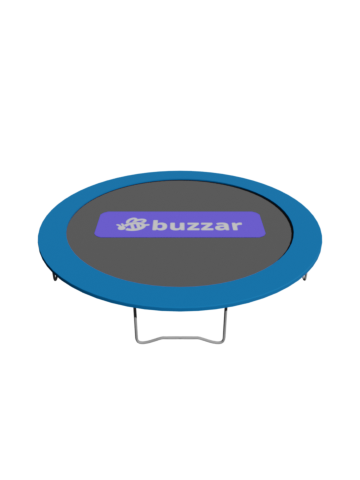
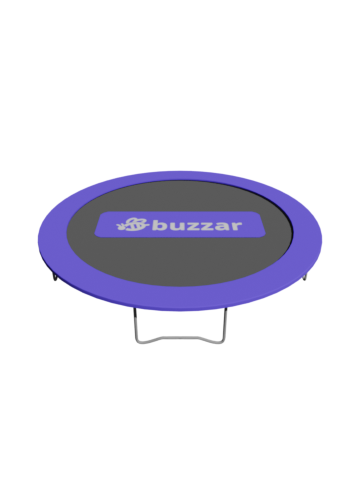
Purple trampoline; name, description, author, source and version in files
- The trampoline's edge pad is Buzzar purple (#7000FF) instead of blue;
  previews re-rendered.
- HAVEN_metadata (name, multi-line description, author, source URL,
  version) in the trampoline (0.1.2), the crate (0.1.0), Buzzar Home (0.1.8;
  home version 10, so homes pick it up) and the test room's scene (0.1.6).

Changed region(s): [[0.0917, 0.3438, 0.9167, 0.6562]]

diff --git a/scripts/buzzar/make-trampoline-thing.py b/scripts/buzzar/make-trampoline-thing.py
@@ -99,6 +99,12 @@ gltf["meshes"].append(
     }
 )
 
+# --- the pad round the edge: Buzzar purple (#7000FF; glTF colours are linear, so sRGB 0x70 -> 0.162) ---
+for m in gltf["materials"]:
+    if m.get("name") == "blue-plastic":
+        m["name"] = "buzzar-purple-plastic"
+        m["pbrMetallicRoughness"]["baseColorFactor"] = [0.162, 0.0, 1.0, 1.0]
+
 # --- node tree: Trampoline (metres, Y up, feet on y=0) ---
 nodes = gltf["nodes"]
 scene = gltf.get("scene", 0)
@@ -119,7 +125,20 @@ bed = len(nodes) - 1
 nodes.append({"name": "Trampoline", "children": [model, logo, bed]})
 gltf["scene"] = scene
 gltf["scenes"][scene]["nodes"] = [len(nodes) - 1]
-gltf["extensionsUsed"] = sorted(set(gltf.get("extensionsUsed", []) + ["HAVEN_trampoline"]))
+gltf["extensionsUsed"] = sorted(set(gltf.get("extensionsUsed", []) + ["HAVEN_trampoline", "HAVEN_metadata"]))
+# What it is and where it's from (docs/gltf/HAVEN_metadata). Bump the version with each change to this file.
+gltf.setdefault("extensions", {})["HAVEN_metadata"] = {
+    "name": "Trampoline",
+    "description": (
+        "A 3 m trampoline with the Buzzar logo on the mat.\n"
+        "Land on it to bounce (at least 2.5 m, higher the further you fall). Hold jump as you land to go higher; "
+        "crouch to stop. Crates, balls and other Things bounce on it too.\n"
+        "Adapted from \"Trampoline\" by 1-3D.com (CC BY-SA 4.0); this adaptation is CC BY-SA 4.0 as well."
+    ),
+    "author": "1-3D.com",
+    "sourceUrl": "https://sketchfab.com/3d-models/trampoline-052aaef6c5c34c5bac94607bcc12d2f9",
+    "version": "0.1.2",
+}
 gltf["asset"]["generator"] = "Buzzar make-trampoline-thing.py (from Sketchfab-12.78.0)"
 gltf["asset"]["copyright"] = (
     '"Trampoline" by 1-3D.com (https://sketchfab.com/1-3D.com), CC BY-SA 4.0; adapted for Buzzar '
